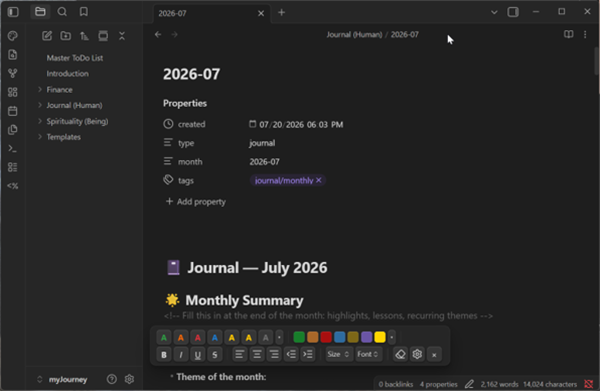
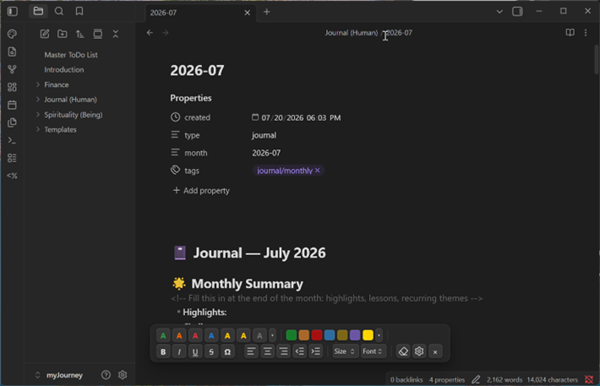
Refresh plugin screenshots and mention the symbol picker

diff --git a/htmlFontToolbar.html b/htmlFontToolbar.html
@@ -73,7 +73,8 @@
           <li>Click inside an already-styled word to restyle it &mdash; no re-selecting, even when Obsidian hides the markup</li>
           <li>Semi-transparent highlight presets that stay readable in light <i>and</i> dark themes</li>
           <li>Table-aware alignment and paragraph indentation: align paragraphs, whole table columns, a selected fragment inside a cell, or even image embeds &mdash; and indent/outdent paragraphs in clean 2em steps</li>
-          <li>Every preset is customizable in the settings tab &mdash; add, rename, or recolor colors, highlights, sizes, and fonts</li>
+          <li>A symbol picker (&Omega;) for math, Greek, arrows, punctuation, currency, and marks, with a recently-used row</li>
+          <li>Every preset is customizable in the settings tab &mdash; add, rename, or recolor colors, highlights, sizes, fonts, and symbol groups</li>
           <li>Notes stay plain HTML, so they render identically even if the plugin is later removed</li>
         </ul>
         <h2 class="mt-5">Get the Plugin</h2>
